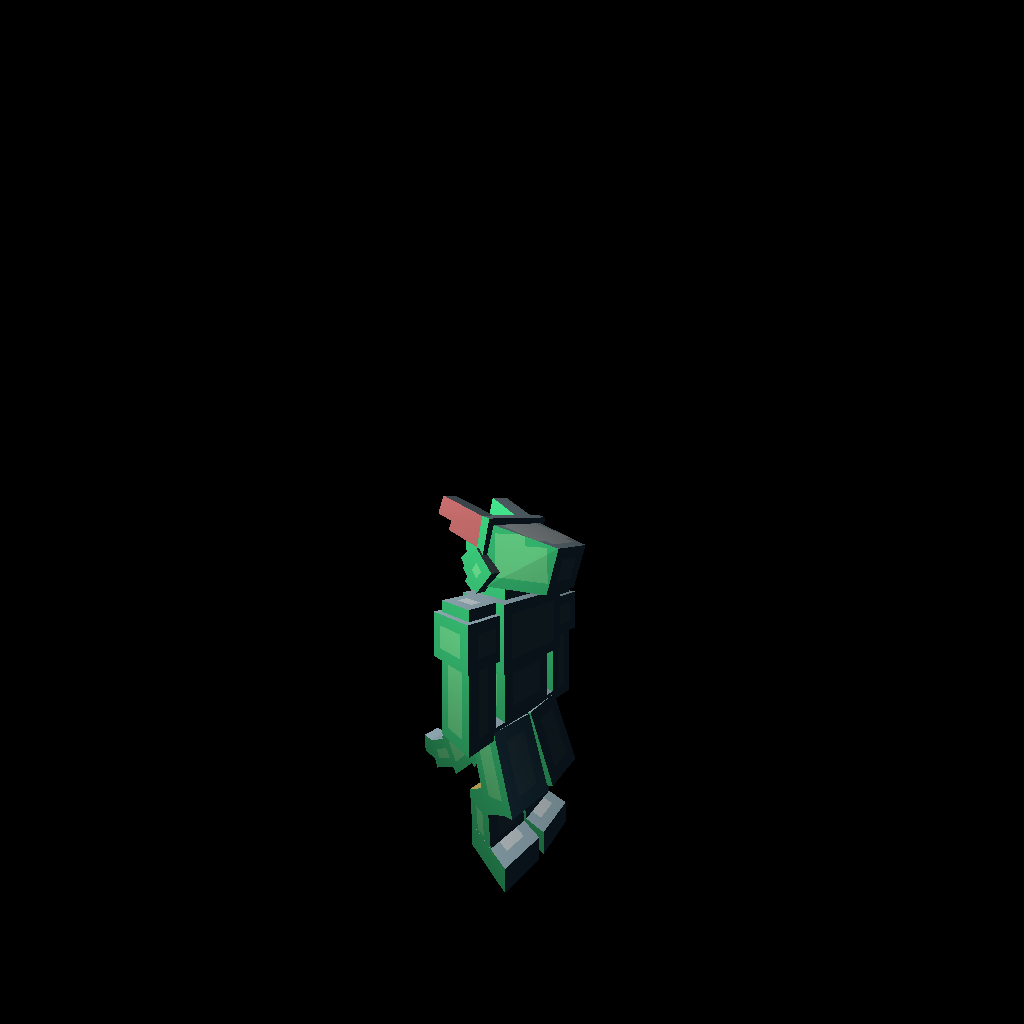
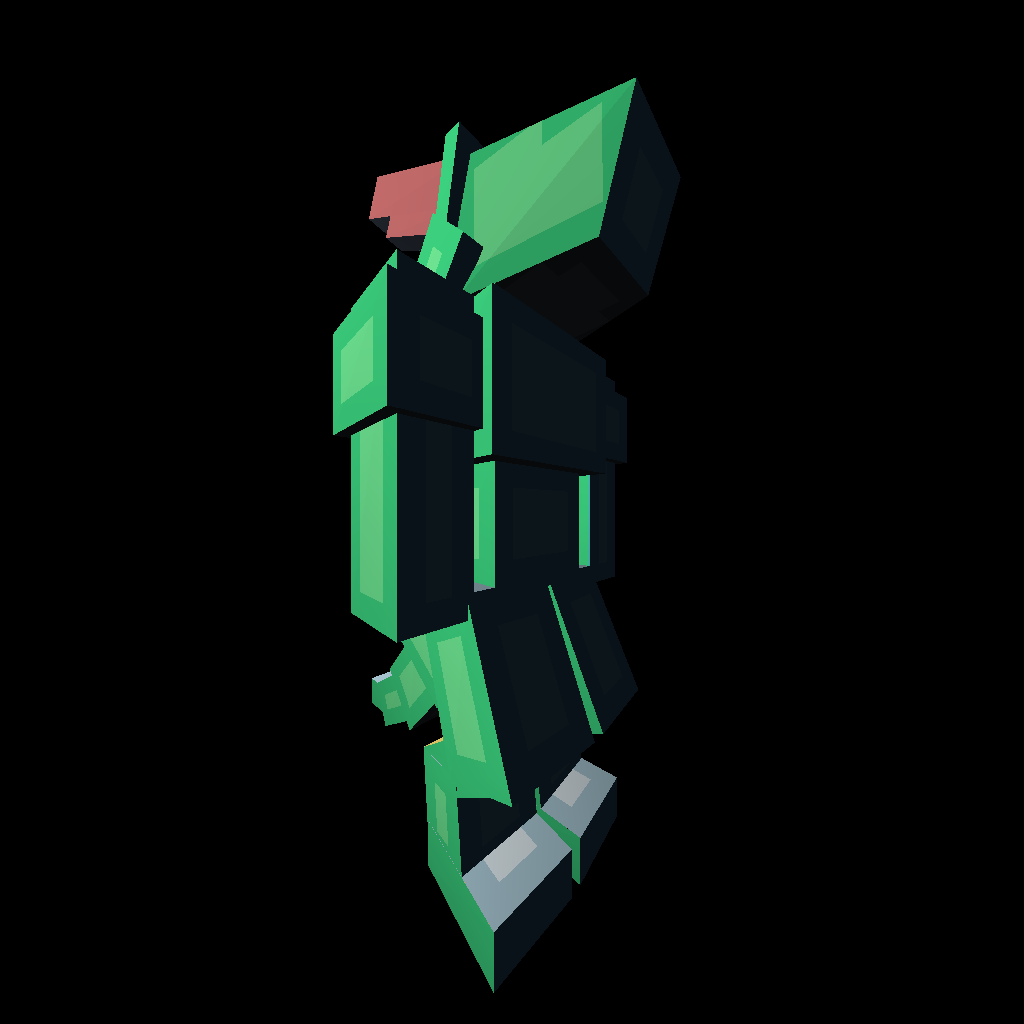
Added an albedo field to the Fragment class to store the original unshaded color

Changed region(s): [[0.3125, 0.0625, 0.6562, 0.9688]]

diff --git a/src/utils/geometry/Fragment.h b/src/utils/geometry/Fragment.h
@@ -12,6 +12,7 @@ class Fragment {
 	Vector3 normal;
 	Vector2 uv = NILVEC2;
 	uint32_t color = 0;
+	uint32_t albedo = 0;
 
 	Fragment() {
 		ndc = Vector4(0, 0, FLT_MAX, FLT_MAX);
@@ -31,19 +32,28 @@ class Fragment {
 		uv = Vector2(U);
 	}
 
+	Fragment(Vector4 V, Vector3 N, uint32_t C, Vector2 U, uint32_t A) {
+		ndc = Vector4(V);
+		normal = Vector3(N);
+		color = C;
+		uv = Vector2(U);
+		albedo = A;
+	}
+
 	Fragment(const Fragment& o) {
 		ndc = Vector4(o.ndc);
 		normal = Vector3(o.normal);
 		color = o.color;
 		uv = Vector2(o.uv);
+		albedo = o.albedo;
 	}
 
 	inline bool operator==(Fragment& o) {
-		return (ndc == o.ndc) && (normal == o.normal) && (color == o.color) && (uv == o.uv);
+		return (ndc == o.ndc) && (normal == o.normal) && (color == o.color) && (uv == o.uv) && (albedo == o.albedo);
 	}
 
 	inline bool operator!=(Fragment& o) {
-		return !( (ndc == o.ndc) && (normal == o.normal) && (color == o.color) && (uv == o.uv));
+		return !( (ndc == o.ndc) && (normal == o.normal) && (color == o.color) && (uv == o.uv) && (albedo == o.albedo));
 	}
 
 	// UTIL

diff --git a/src/scene/Scene.h b/src/scene/Scene.h
@@ -355,6 +355,7 @@ class Scene { // CENA!
 
 
 		uint32_t c = getColor(s.material, finaluv);
+		uint32_t oc = c;
 		// std::cout << finaluv.to_string() << " " << c << " " << (s.material.TYPE == BaseMaterial::IMAGE) << "\n";
 		if (PHONGSHADE) {
 			Vector3 point;
@@ -372,7 +373,7 @@ class Scene { // CENA!
 		} else {
 			c = illuminate(t.centroid(), t.centroid(), s.N, finaluv, s.material);
 		}
-		Fragment F__F(Vector4(x, y, zc, wc), Vector3(s.ON), c);
+		Fragment F__F(Vector4(x, y, zc, wc), Vector3(s.ON), c, finaluv, oc);
 
 		// std::cout << s.bary(x, y).to_string() << " " << F.ndc.z << " " << F.ndc.w << " = " << F.color << "\n";
 		drawFragment(F__F, x, y);
@@ -595,8 +596,8 @@ class Scene { // CENA!
 			if (y1 < s.p[i].ndc.y) y1 = s.p[i].ndc.y;
 		}
 
-		for (int x = x0; x <= x1; x++) {
-			for (int y = y0; y <= y1; y++) {
+		for (int x = BASE::max(x0, 0); x <= x1 && x < W; x++) {
+			for (int y = BASE::max(y0, 0); y <= y1 && y < H; y++) {
 				if (!s.inside(Vector2(x, y))) continue;
 				DrawTriFrag(s, T, x, y, PHONGSHADE);
 			}

diff --git a/main.cpp b/main.cpp
@@ -70,7 +70,7 @@ inline void textest() {
 inline void objtest() {
 	std::string path = MESHES + "/mcrproto.obj";
 	Mesh mesh = Mesh::fromOBJ(path);
-	Transform movemeback(Vector3(0, -2, -2), Rotation3(Vector3(0, 1, 0), M_PI * 1.25));
+	Transform movemeback(Vector3(0, -1, -1), Rotation3(Vector3(0, 1, 0), M_PI * 1.25));
 
 	mesh.Trans(movemeback);
 
@@ -90,6 +90,9 @@ inline void objtest() {
 
 	ImageTexture mat(mcrproto);
 
+	auto start = std::chrono::high_resolution_clock::now();
+
+
 	for (int i = 0; i < 1; i++) {
 		s.clearBuffer();
 		s.fillMesh(mesh, &mat, true, true, false);
@@ -100,6 +103,9 @@ inline void objtest() {
 	
 
 	std::cout << "Drawn\n";
+
+	auto finish = std::chrono::high_resolution_clock::now();
+    std::cout << double(std::chrono::duration_cast<std::chrono::nanoseconds>(finish-start).count()) / 1000000 << "ns\n";
 
 
 	s.outputBuffer(BUFFER_PATH);
